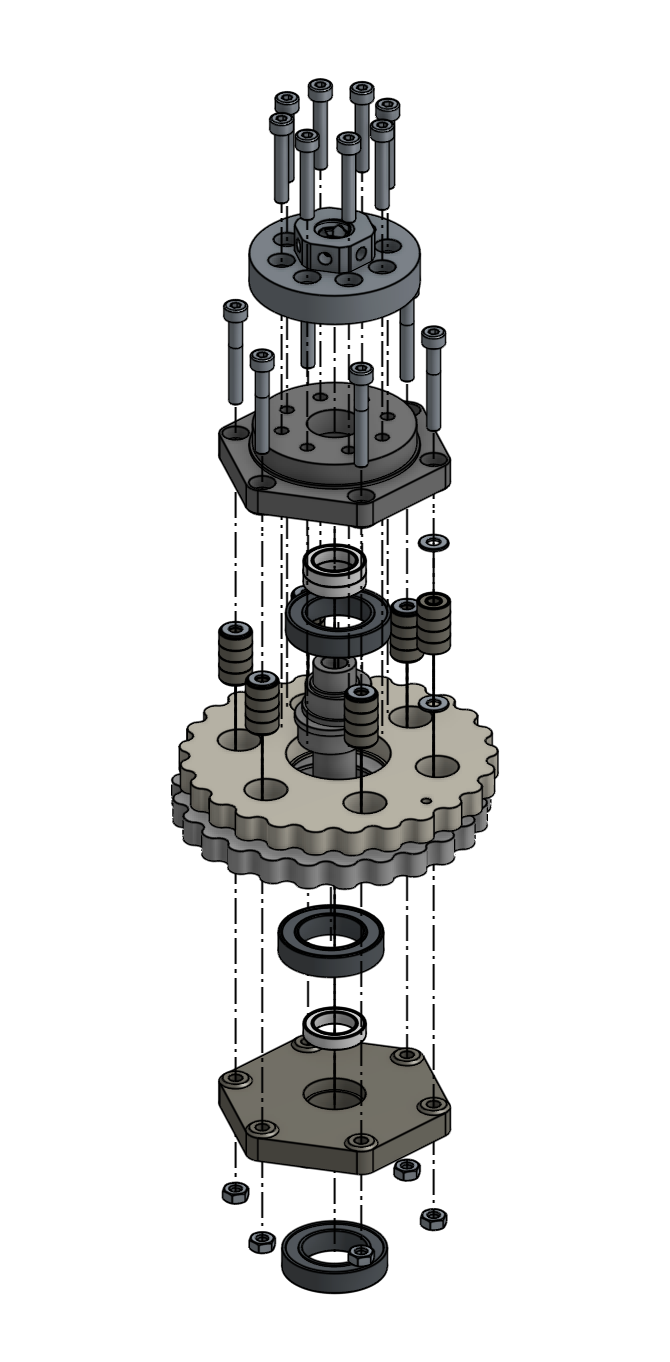
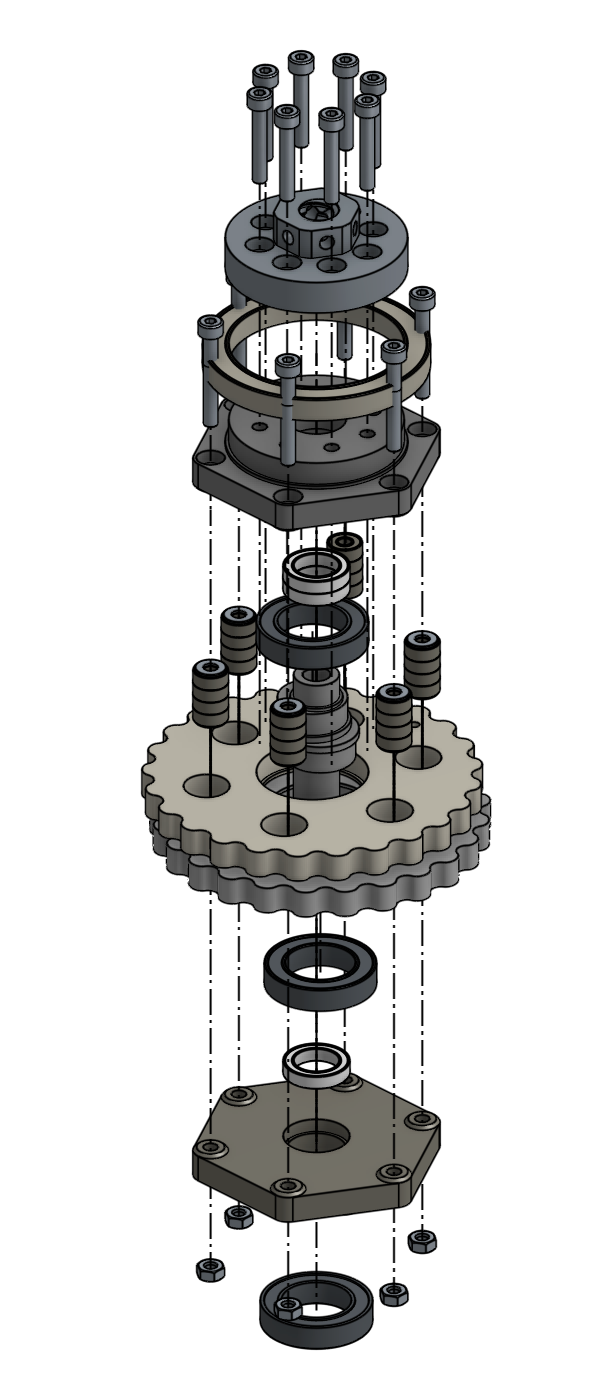
File Push + Assembly Update

Changed region(s): [[0.2159, 0.0308, 0.8019, 0.9868]]

diff --git a/README.md b/README.md
@@ -51,7 +51,31 @@ The bill of materials for this project are posted as a .csv file in the reposito
 
 The assembly for this project is simple and straightforward, as is displayed throughout a few steps below.
 
+### Step 1: Carrier Assembly
 
+Assemble the carrier as displayed below. Use heat set inserts on the topside of the cycloidal output carrier.
+
+![Carrier Assembly](https://github.com/HMEC-UH/waveGaugeController/blob/main/Assembly%20Image%20Diagrams/outputCarrier.png)
+
+### Step 2: Housing Assembly
+
+Assemble the housing as shown below (insert the 50mmx6mm stainless steel dowels into the lower housing)
+
+![Housing Assembly](https://github.com/HMEC-UH/waveGaugeController/blob/main/Assembly%20Image%20Diagrams/housingAssembly.png)
+
+### Step 3: Motor Mounting
+
+Screw the motor to the upper housing using M4x20mm bolts and M4 lock nuts.
+
+### Step 4: Carrier Insertion and Upper Housing Mounting
+
+Place the cycloidal disks into the housing as shown below, and screw on the upper housing (ensure that the D-Shaft bore of the eccentric bearing and the D-shaft of the motor are aligned. It should fit snugly). It will take some gentle pressure to ease the upper housing onto the gearbox. 
+
+![Carrier Insertion](https://github.com/HMEC-UH/waveGaugeController/blob/main/Assembly%20Image%20Diagrams/fullHousingAssembly.png)
+
+### Lead Screw Mounting
+
+Screw the lead screw into the negative T12 thread on the output side of the cycloidal gearbox. 
 
 # Developer Notes
 
